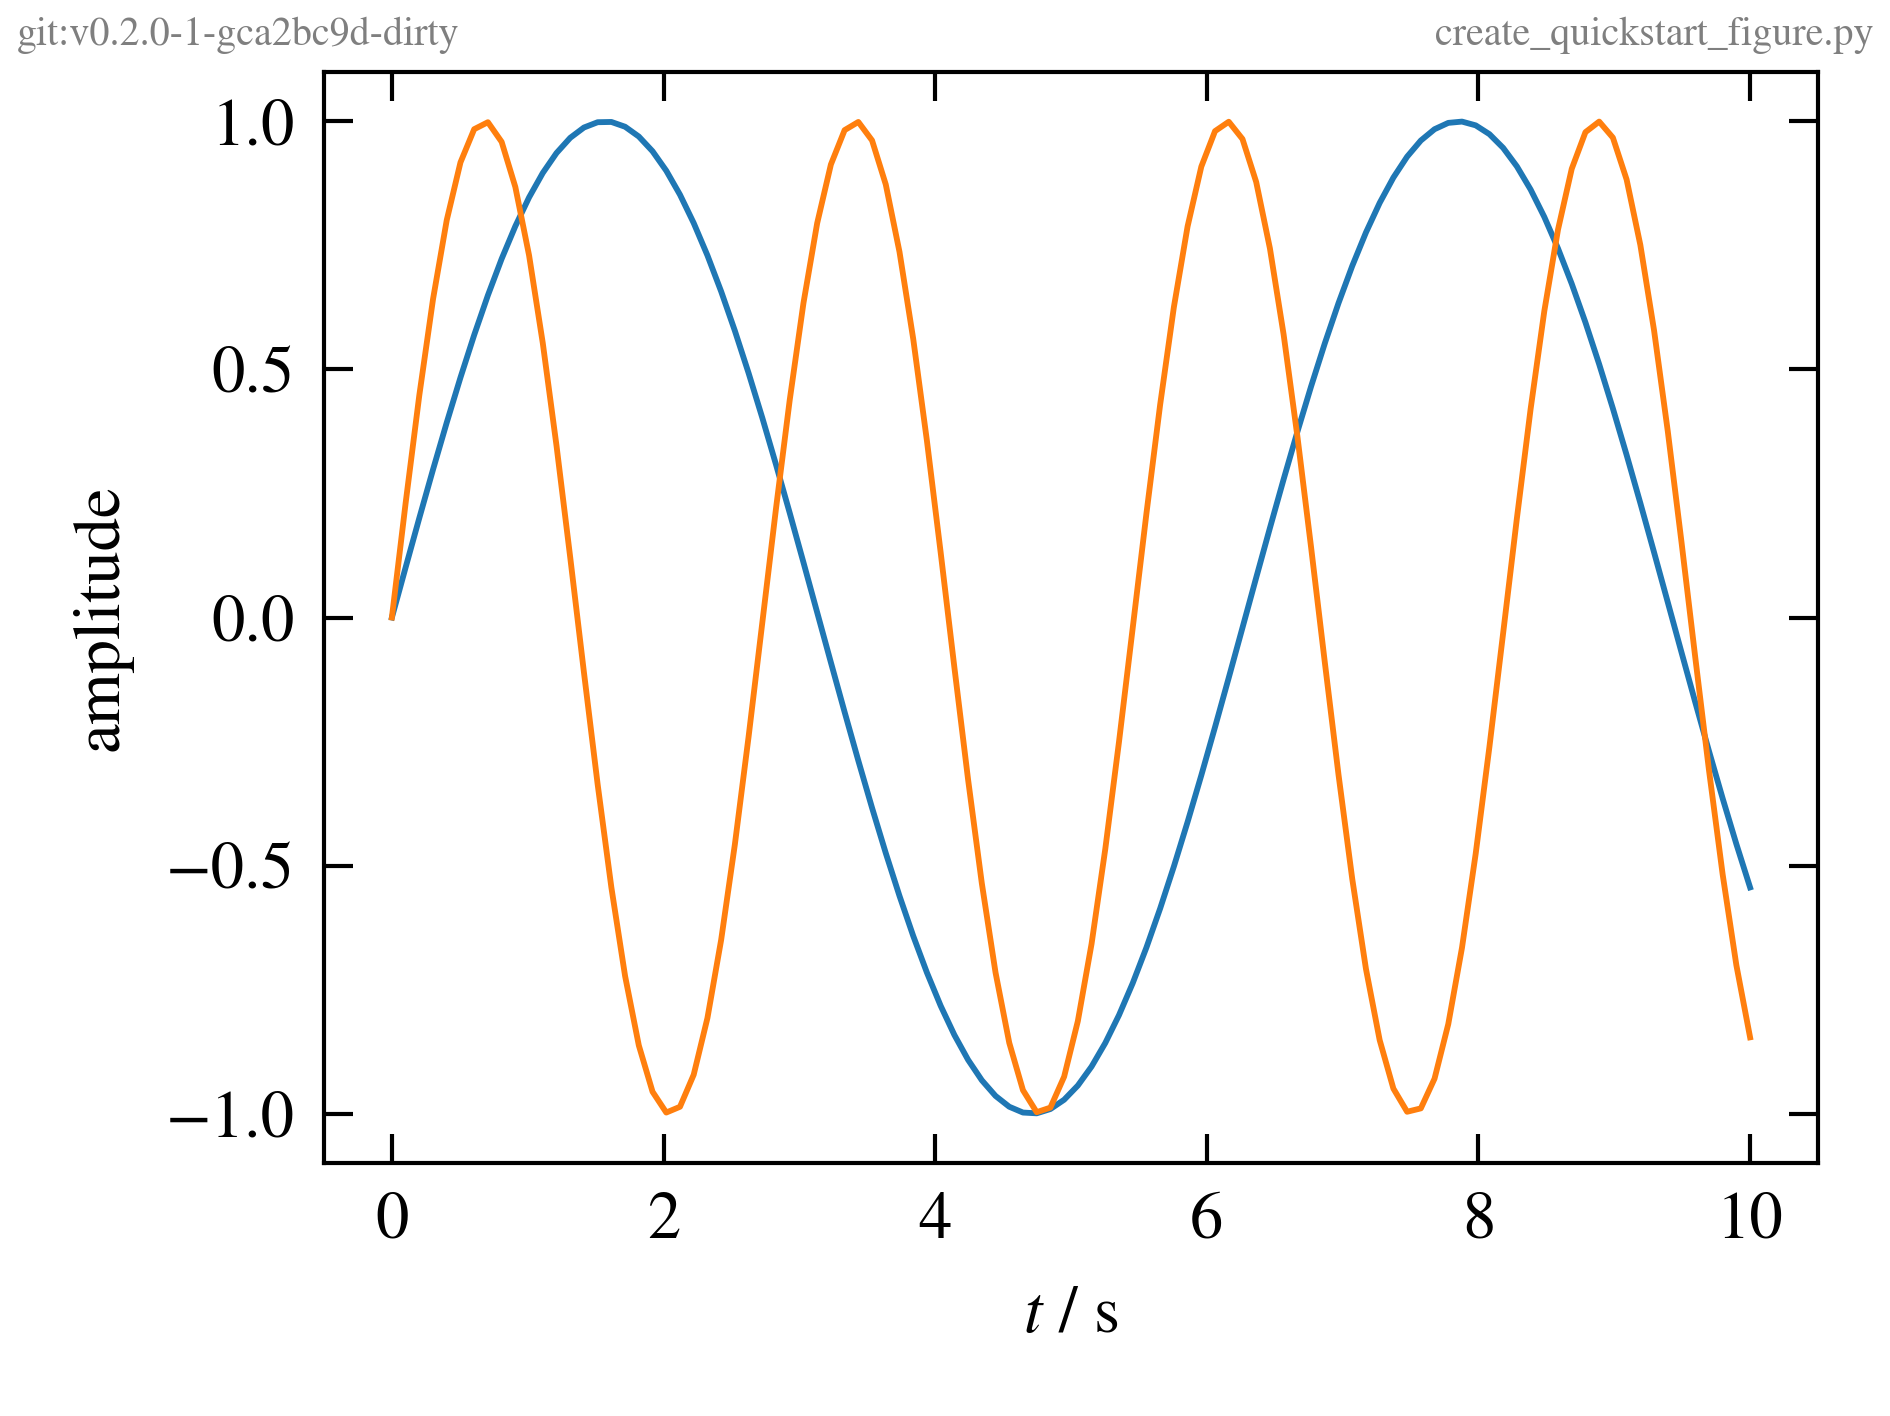
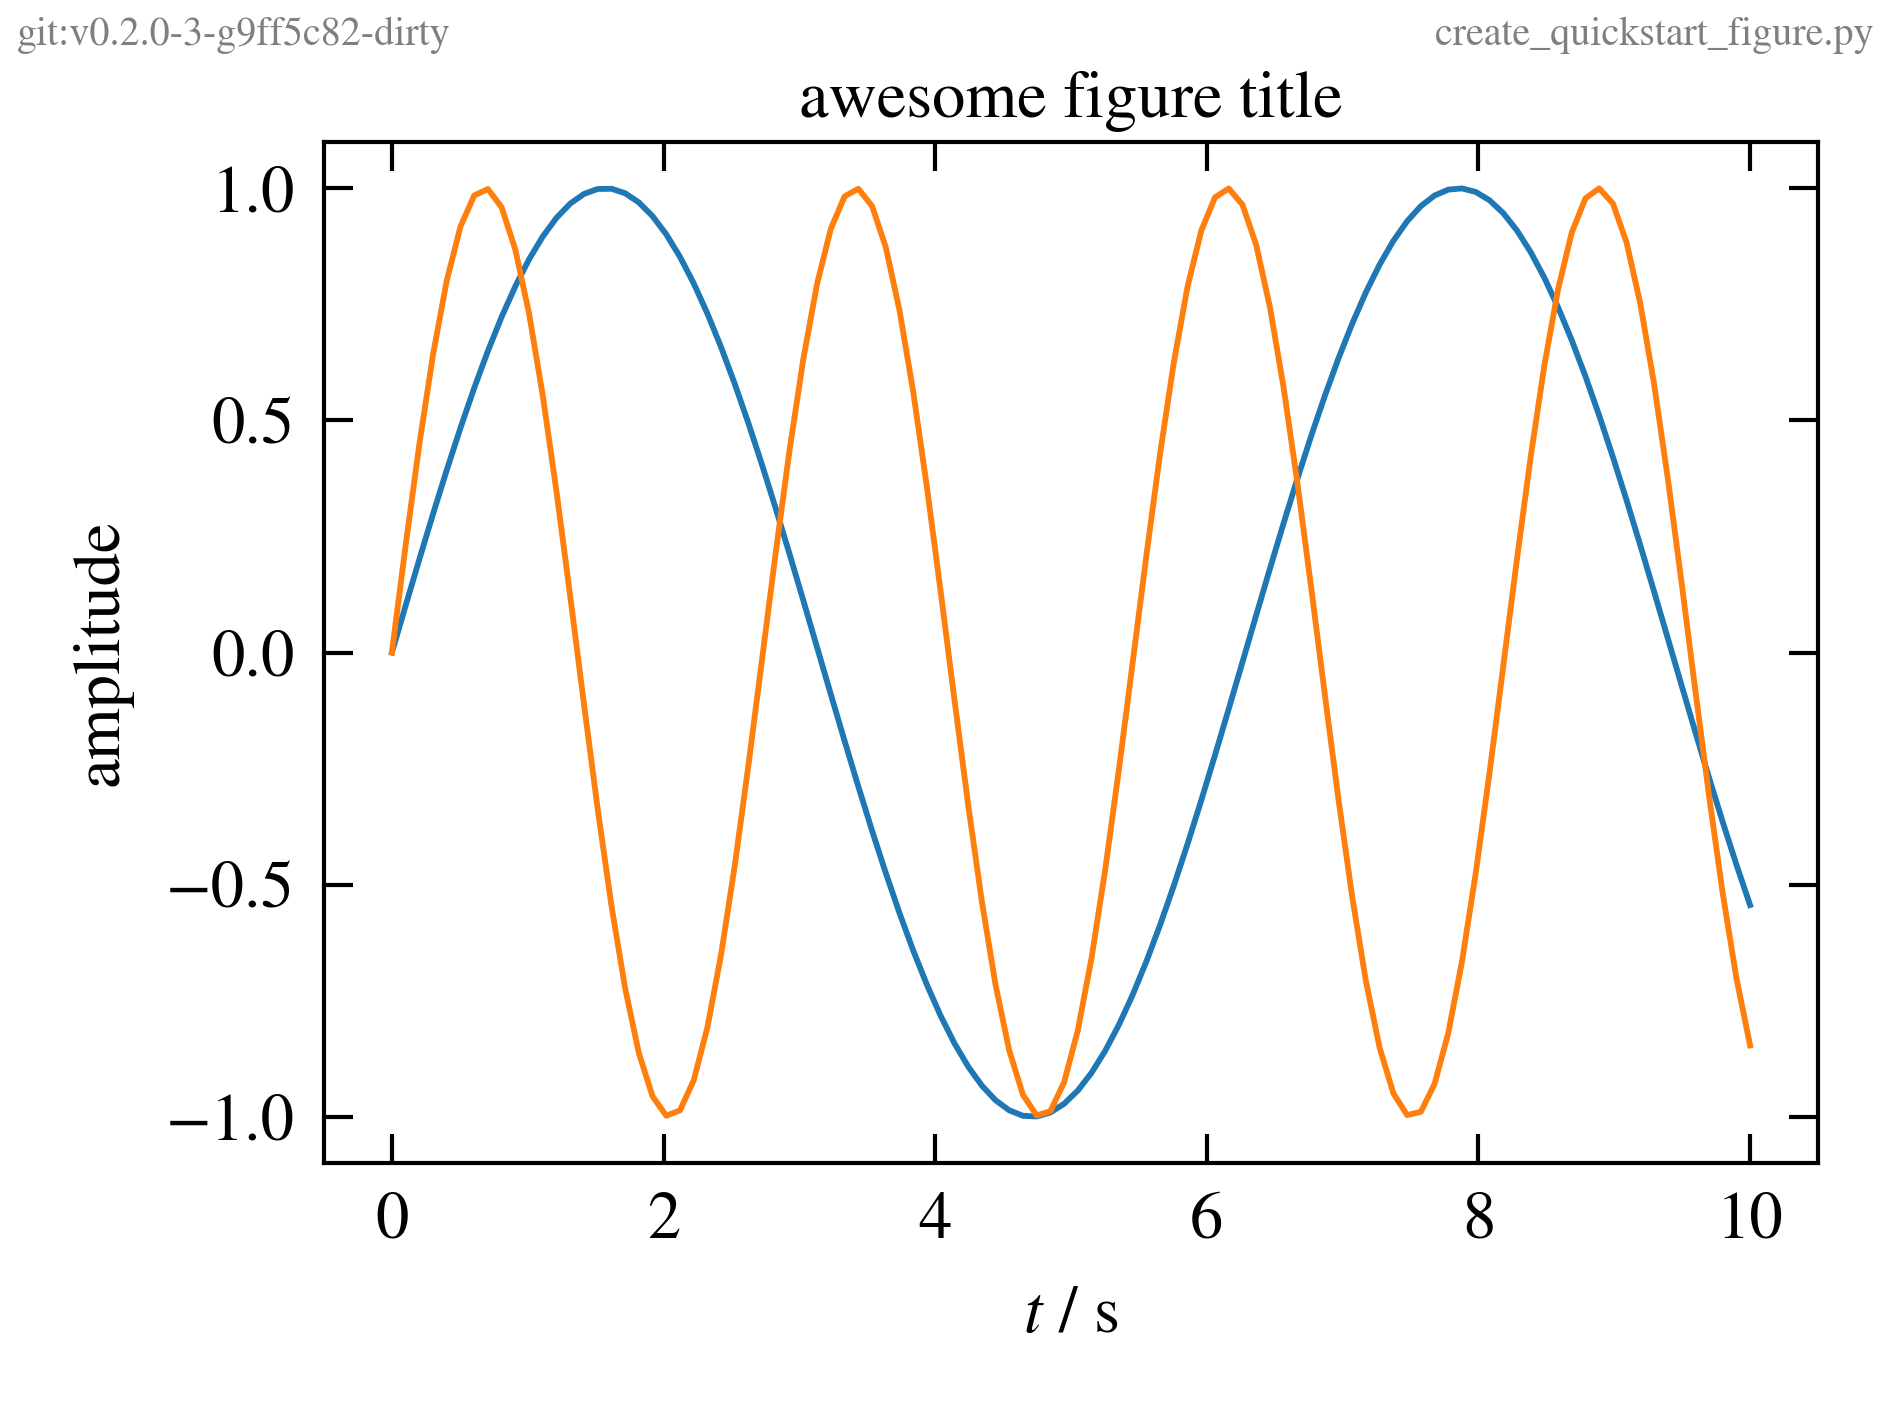
Document the purpose and usage of the library in readme.md Fixes #5

diff --git a/doc/images/create_quickstart_figure.py b/doc/images/create_quickstart_figure.py
@@ -17,6 +17,7 @@ plt.plot(x, np.sin(x), '-')
 plt.plot(x, np.sin(2.3 * x), '-')
 plt.xlabel('$t$ / s')
 plt.ylabel('amplitude')
+plt.title('awesome figure title')
 # ...
 # ...
 # ...

diff --git a/README.md b/README.md
@@ -5,6 +5,8 @@ A small Python package for setting up a consistent workflow for creating images 
 
 ## Installation
 
+> Currently the library is not in the PyPi package index.
+
 Install the package using `pip`
 
 ```shell
@@ -21,6 +23,8 @@ dependencies:
   - python
   - pip
   # list of additional packages
+  # ...
+  # ...
   - pip:
       - git+https://github.com/thaeber/figure-tools.git#egg=figure-tools
 ```
@@ -28,7 +32,8 @@ dependencies:
 ## Quickstart
 
 > We assume that all scripts for creating the figures are managed in
-> a git repository to help in research data management.
+> a git repository to help in research data management. The `git` executable
+> must be reachable through the `PATH` environment variable.
 
 Creating and saving figures always follows the same workflow:
 
@@ -68,9 +73,9 @@ This will create the following figure:
 
 ![Quickstart Figure](doc/images/create_quickstart_figure.png)
 
-By default the package will add the git tag and commit hash (as obtained by `git describe --always`) as well as the script name (the `__file__` parameter above) to the figure as annotation. This behavior can be configured by environment variables.
+By default the package will add the git tag and commit hash (as obtained by `git describe --always`) as well as the script name (the `__file__` parameter above) to the figure as annotation (see top-left and top-right corners). This behavior can be configured by environment variables.
 
-The same information is passed to the `metadata` parameter of `fig.savefig`, so it can be retrieved later, e.g. with the `pillow` package and the `Image.info` field. Additionally, the metadata contains the output of `git blame` for the script file, so that the changes made to the figure can traced back to the individual commits. The `load_image_metadata` and `print_image_metadata` functions can be used to load or directly output the metadata. Internally the functions use the `Image.info` field of the `pillow` package. The output of `print_image_metadata` for the above image yields:
+The same information is passed to the `metadata` parameter of [`fig.savefig`](https://matplotlib.org/api/_as_gen/matplotlib.pyplot.savefig.html?highlight=savefig#matplotlib.pyplot.savefig), so it can be retrieved later, e.g. with the [pillow](https://github.com/python-pillow/Pillow) package and the [`Image.info`](https://pillow.readthedocs.io/en/stable/handbook/concepts.html#info) field. Additionally, the metadata contains the output of `git blame` for the script file, so that the changes made to the figure can be traced back to the individual commits. The `load_image_metadata` and `print_image_metadata` functions can be used to load or directly output the metadata. Internally the functions use the `Image.info` field of the `pillow` package. The output of `print_image_metadata` for the above image yields:
 
 ```yaml
        Software: Matplotlib version3.3.2, https://matplotlib.org/
@@ -110,3 +115,42 @@ script-filename: create_quickstart_figure.py
                  ca2bc9df (thaeber           2020-10-21 14:29:39 +0200 30) # %%
             dpi: (600, 600)
 ```
+
+## Styling {#styling}
+
+> ... work in progress (see #6). Currently an internal style sheet is used.
+
+Call `apply_style()` to set the matplotlib styling parameters to a common style that also includes a common base figure size for all figures in the project.
+
+## Creating figures
+
+`create_figure()` is a convenience function for creating figures. Internally it is just a wrapper around the [`pyplot.figure()`](https://matplotlib.org/api/_as_gen/matplotlib.pyplot.figure.html?highlight=figure#matplotlib-pyplot-figure) function, but it simplifies the creation of figures with similar size constraints. For example, publications in scientific journals are often printed in two-columns. If the [style file](#styling) defines the with and height of a single-column wide figure then creating a double-column wide figure with the same height is as easy as calling:
+
+```python
+fig = create_figure(width='2x')
+```
+
+There is no need to remember the physical size of a double-colum wide figure, if the base size is configured appropriately. The width parameter can be any multiple of the base figure width, followed by an 'x', e.g. '1.25x'. The figure height can be specified in the same way using the `height` parameter. 
+
+`create_figure` also provides an `aspect_ratio` parameter to create figures with a given width and aspect ratio (height/width). The `aspect_ratio` is ignored if the `height` parameter is present. To create a single-column wide figure with an aspect ratio of $1.0$ call:
+
+```python
+fig = create_figure(width='1x', aspect_ratio=1.0)
+```
+
+The width and height parameters are not constrained to multiples or fractions of the base figure size. It is also possible to specify the absolute size of the images in physical units, which consists of a number followed by one of the supported length units (cm, mm, inch). Examples:
+
+```python
+# create figure that is 8cm wide and 60mm high
+fig = create_figure(width='8cm', height='60mm')
+
+# create a figure that is 8cm wide with an aspect ratio of 1.0,
+# so that the final height will also be 8cm
+fig = create_figure(width='8cm', aspect_ratio=1.0)
+
+# create a figure with a size of 3-by-2 inches
+fig = create_figure(width='3inch', height='2inch')
+```
+
+`float` values passed to the `width` and `height` parameters are passed directly to the `figsize` parameter of the `pyplot.figure()` call, thus representing the size of the figure in inches, the internal length unit of matplotlib.
+
